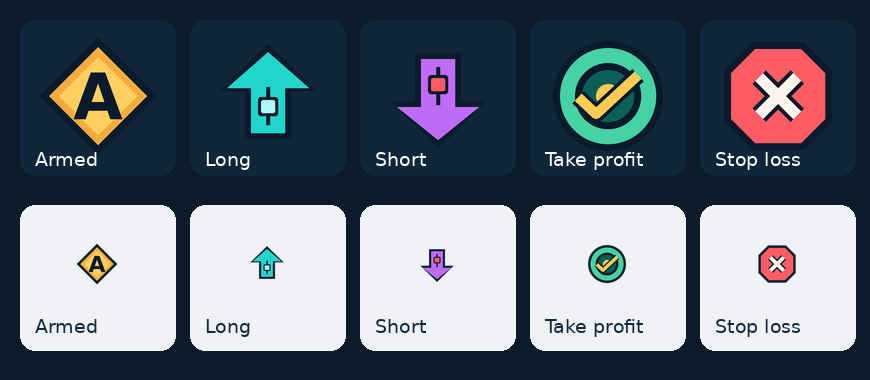
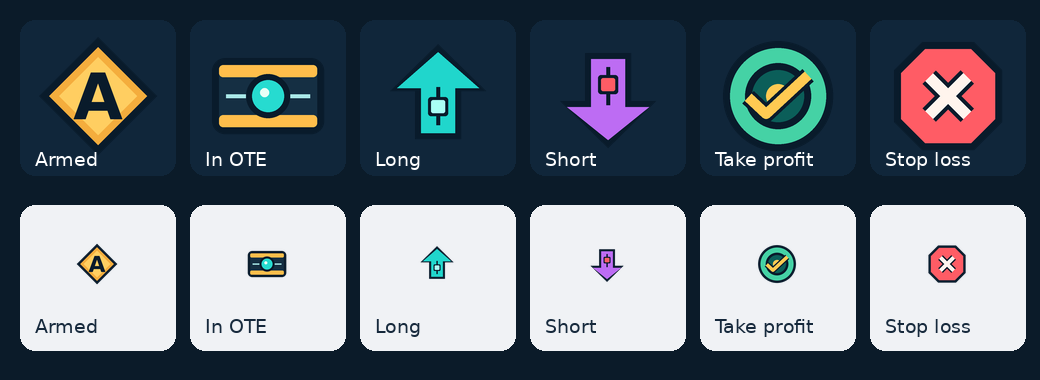
Show live OTE price status on Slack parent alerts

diff --git a/README.md b/README.md
@@ -37,7 +37,7 @@ The dashboard's chart refreshes around M15 boundaries; the selected pair's formi
 
 To enable hourly email, set `GMAIL_FROM`, `GMAIL_TO`, and `GMAIL_APP_PASSWORD` in your environment, or use the ignored `mail-credentials.local.ps1` for the app password, then start with `ENABLE_HOURLY_EMAIL=1 ./start.sh`. The mail process reads the **V2** ledger and V2 server, sends at the top of each hour, and records the last sent hour to avoid duplicates. `pwsh -NoProfile -File ./hourly-paper-email.ps1 -Preview` writes a local HTML preview without sending.
 
-For threaded Slack alerts with trade charts, add the `chat:write` and `files:write` bot scopes to your Slack app, install or reinstall it, and invite the bot to the destination channel. Put its Bot User OAuth Token (`xoxb-...`) and that channel's ID (`C...`) in the ignored `slack-credentials.local.ps1` file (see the example), or set `SLACK_BOT_TOKEN` and `SLACK_CHANNEL_ID` as environment variables. Restrict the credential file to your user (`chmod 600`). The notifier posts the armed setup as the thread parent and edits that first message as the trade progresses. Its first line shows the custom armed emoji, then the long or short emoji at entry, then the take-profit or stop-loss emoji at the corresponding exit. Other exit reasons use a finish-flag emoji rather than being mislabeled as TP or SL. Open and close details remain in thread replies. The opened reply states the pair, direction, paper entry price and candle time, and the separate OANDA practice fill when available. Its PNG shows about five hours of M15 candles, the OTE zone, and the dashboard's A arm and L/S entry markers. The closing reply includes a second PNG from setup through exit with the same markers, a green or red trade path, and the exit dot and result. Chart rendering requires Python 3 with Pillow; the OANDA token already used by V2 is read from `credentials-v2.local.ps1`. If chart generation or upload fails, the update is sent as text. The notifier saves parent timestamps and status in the ignored `data/slack-v2-state.json` so replies and edits survive restarts. If an arm happened before bot mode was configured, the notifier recreates its parent when the trade opens or closes. New live forex events only; historical replay is excluded. Existing incoming-webhook configuration remains supported as a fallback, but sends separate text messages because Slack's webhook response has no parent timestamp. The notifier checks the V2 ledger every 20 seconds. Never commit or share the token or webhook URL. `pwsh -NoProfile -File ./slack-v2-notifier.ps1 -TestSend` sends a connection check.
+For threaded Slack alerts with trade charts, add the `chat:write` and `files:write` bot scopes to your Slack app, install or reinstall it, and invite the bot to the destination channel. Put its Bot User OAuth Token (`xoxb-...`) and that channel's ID (`C...`) in the ignored `slack-credentials.local.ps1` file (see the example), or set `SLACK_BOT_TOKEN` and `SLACK_CHANNEL_ID` as environment variables. Restrict the credential file to your user (`chmod 600`). The notifier posts the armed setup as the thread parent and edits that first message as the trade progresses. Its first line shows the custom armed emoji, then the long or short emoji at entry, then the take-profit or stop-loss emoji at the corresponding exit. While an armed or open setup's fresh OANDA midpoint quote is inside its OTE zone, it also shows the custom in-OTE emoji; this is removed when price leaves the zone or the setup ends. Other exit reasons use a finish-flag emoji rather than being mislabeled as TP or SL. Open and close details remain in thread replies. The opened reply states the pair, direction, paper entry price and candle time, and the separate OANDA practice fill when available. Its PNG shows about five hours of M15 candles, the OTE zone, and the dashboard's A arm and L/S entry markers. The closing reply includes a second PNG from setup through exit with the same markers, a green or red trade path, and the exit dot and result. Chart rendering requires Python 3 with Pillow; the OANDA token already used by V2 is read from `credentials-v2.local.ps1`. If chart generation or upload fails, the update is sent as text. The notifier saves parent timestamps and status in the ignored `data/slack-v2-state.json` so replies and edits survive restarts. If an arm happened before bot mode was configured, the notifier recreates its parent when the trade opens or closes. New live forex events only; historical replay is excluded. Existing incoming-webhook configuration remains supported as a fallback, but sends separate text messages because Slack's webhook response has no parent timestamp. The notifier checks the V2 ledger every 20 seconds. Never commit or share the token or webhook URL. `pwsh -NoProfile -File ./slack-v2-notifier.ps1 -TestSend` sends a connection check.
 
 ## Optional data and tools
 
